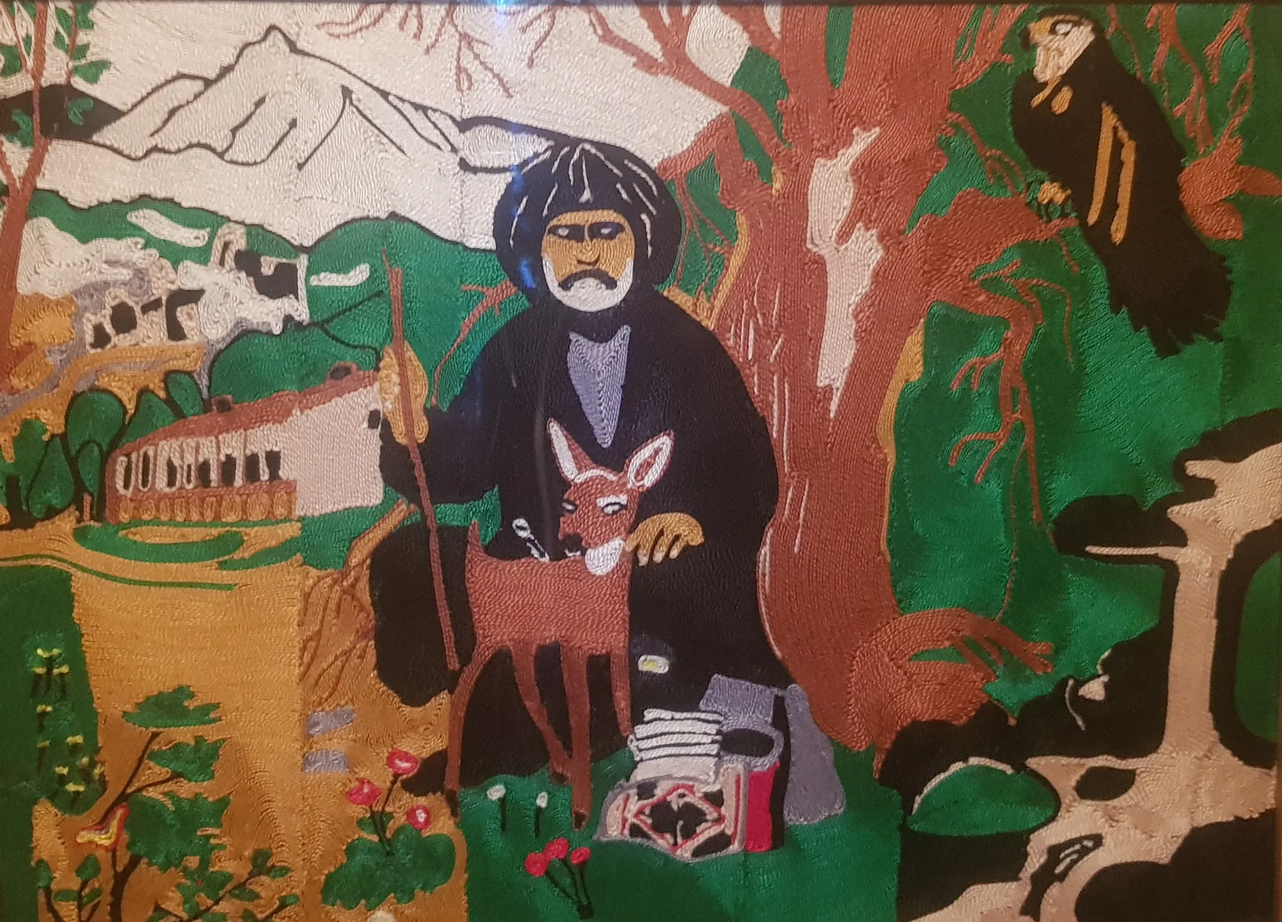
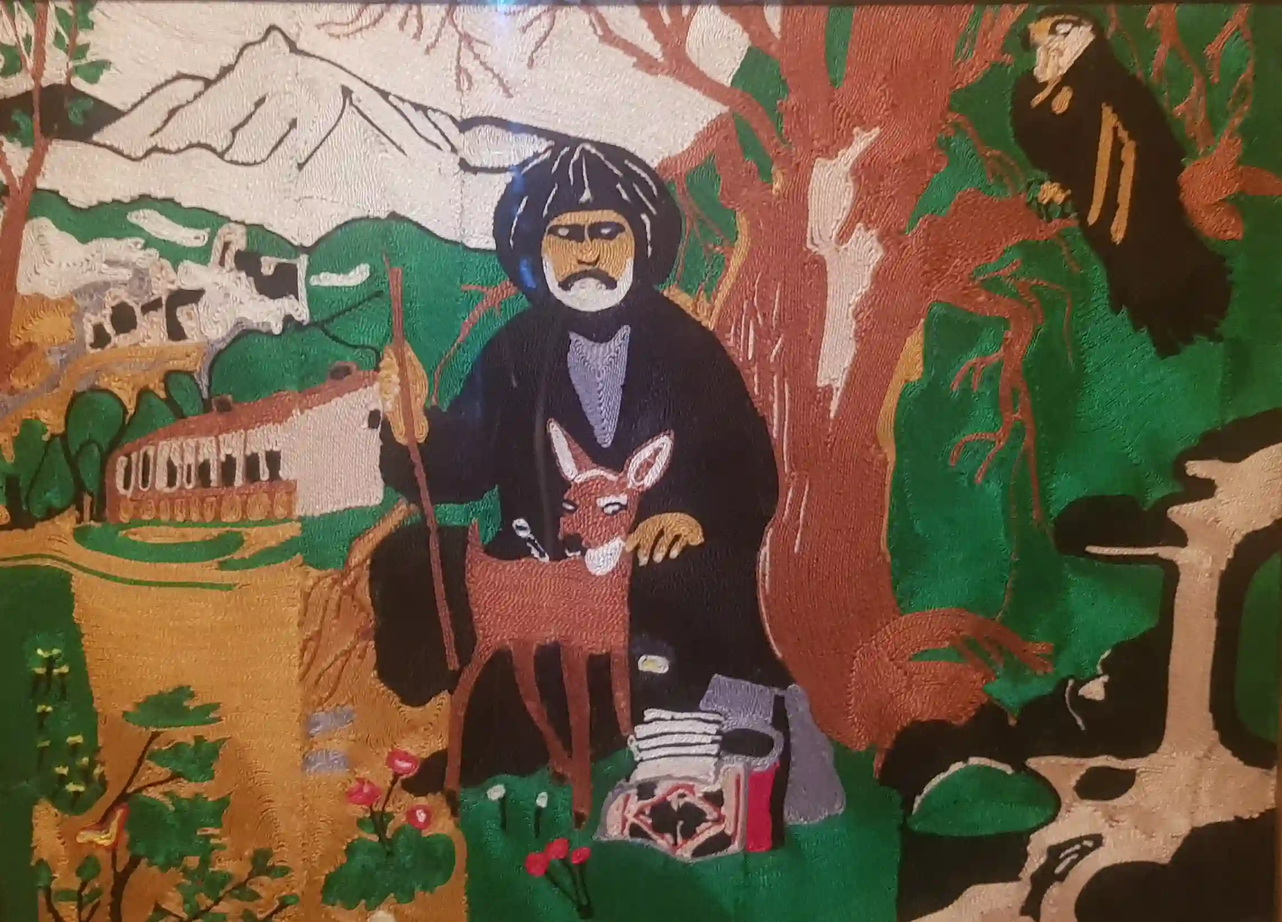
add image compression function

Changed region(s): [[0.7464, 0.4656, 0.7775, 0.4967], [0.3732, 0.3104, 0.4043, 0.3414], [0.3421, 0.3725, 0.3732, 0.4035]]

diff --git a/routes.py b/routes.py
@@ -94,7 +94,7 @@ def admindashboard():
 
             webp_file_path = path.join(app.root_path, "static", webp_filename)
             
-            image.save(webp_file_path, 'webp')
+            image.save(webp_file_path, 'webp', optimize = True, quality = 10)
             
             # Create a new product with the webp filename
             new_product = Product(name=form.name.data, img=webp_filename)
